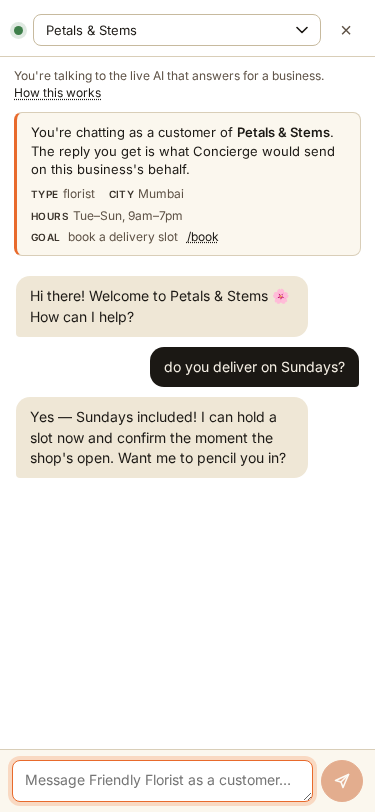
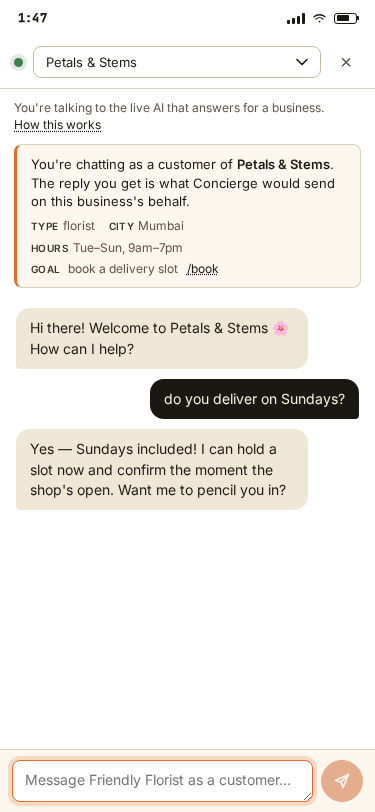
demo: real-phone status bars, live clock, slower wipe, depth on flip (#38)
- Add a generic (non-iOS/Android) status bar to the activated chat:
  live clock + drawn signal/wi-fi/battery glyphs, so it reads as a phone.
- Drive both status bars (idle illustration and activated chat) off a
  live wall-clock in the browser's own timezone, ticking each minute.
- Slow the concierge wipe to 900ms and widen the brand-mark hold so the
  mark is legible rather than a flicker.
- Give the open animation depth: a perspective hinge-flip (rotateX +
  translateZ) instead of a flat scale-in.
- visual.spec: wait out the longer wipe (page-scoped, since the overlay
  is a sibling of the chat dialog) before the demo shots.

diff --git a/public/css/components.css b/public/css/components.css
@@ -546,15 +546,24 @@ table tr.audit-detail > td { padding:0; background:var(--paper);
 .phone-backdrop { position:fixed; inset:0; z-index:1000; background:rgba(0,0,0,.45); }
 
 /* Activated frame: centre stage on a backdrop. Padding/gap drop to zero
-   so the chat fills the screen; the inner sections carry their own. */
+   so the chat fills the screen; the inner sections carry their own. The
+   open animation is a short hinge-flip: the phone tilts up from the
+   backdrop on an X axis with real perspective + depth (translateZ), so
+   it reads as a slab swinging toward you rather than a flat scale-in. */
 .phone-frame.active { position:fixed; z-index:1001; top:50%; left:50%;
   transform:translate(-50%,-50%);
   width:min(390px, calc(100vw - 32px)); height:min(680px, calc(100dvh - 48px));
   max-width:none; padding:0; gap:0; overflow:hidden;
-  animation:phone-pop .3s ease; }
-@keyframes phone-pop {
-  from { opacity:0; transform:translate(-50%,-50%) scale(.96); }
-  to { opacity:1; transform:translate(-50%,-50%) scale(1); }
+  transform-origin:50% 100%;
+  animation:phone-flip .5s cubic-bezier(.2,.75,.25,1); }
+@keyframes phone-flip {
+  0% { opacity:0;
+    transform:translate(-50%,-50%) perspective(1200px) rotateX(-38deg) translateZ(-80px) scale(.94);
+    box-shadow:0 50px 90px rgba(27,24,20,.04); }
+  55% { opacity:1; }
+  100% { opacity:1;
+    transform:translate(-50%,-50%) perspective(1200px) rotateX(0) translateZ(0) scale(1);
+    box-shadow:0 30px 70px rgba(27,24,20,.28); }
 }
 
 /* The concierge "wipe": a brand-coloured panel that sweeps top-to-bottom
@@ -564,25 +573,51 @@ table tr.audit-detail > td { padding:0; background:var(--paper);
   display:flex; align-items:center; justify-content:center;
   background:linear-gradient(135deg, var(--accent), var(--accent-2));
   border-radius:inherit;
-  animation:phone-wipe .48s cubic-bezier(.4,0,.2,1) forwards; }
+  animation:phone-wipe .9s cubic-bezier(.4,0,.2,1) forwards; }
 /* The brand mark lands as an app icon: a cream chip carrying the logo
    glyph, so it reads on the accent wipe (the logo's own disc is accent
-   and would otherwise vanish into the background). */
+   and would otherwise vanish into the background). It holds on screen
+   for a clear beat mid-sweep so the mark is legible, not a flicker. */
 .phone-wipe-mark { display:flex; align-items:center; justify-content:center;
   width:84px; height:84px; border-radius:22px; background:var(--cream);
   box-shadow:0 10px 30px rgba(27,24,20,.25);
-  animation:phone-wipe-mark .48s ease forwards; }
+  animation:phone-wipe-mark .9s ease forwards; }
 .phone-wipe-mark svg { width:52px; height:52px; }
 @keyframes phone-wipe {
   0% { transform:translateY(-101%); }
-  40%,60% { transform:translateY(0); }
+  30%,68% { transform:translateY(0); }
   100% { transform:translateY(101%); }
 }
 @keyframes phone-wipe-mark {
-  0%,18% { opacity:0; }
-  46%,58% { opacity:1; }
-  100% { opacity:0; }
+  0%,16% { opacity:0; transform:scale(.82); }
+  34%,62% { opacity:1; transform:scale(1); }
+  100% { opacity:0; transform:scale(1.05); }
 }
+
+/* Generic phone status bar across the top of the activated chat: live
+   clock on the left, signal / wi-fi / battery glyphs on the right. Drawn
+   from scratch (ascending bars, an arc, a capped cell) so it reads as "a
+   phone" without copying iOS's pill or Android's exact iconography. */
+.phone-statusbar { display:flex; align-items:center; justify-content:space-between;
+  flex:none; padding:9px 18px 5px;
+  font-family:var(--f-mono); font-size:12px; font-weight:600;
+  letter-spacing:.02em; color:var(--ink); }
+.phone-statusbar .phone-status-icons { display:inline-flex; align-items:center; gap:7px; }
+.phone-sig { display:inline-flex; align-items:flex-end; gap:2px; height:11px; }
+.phone-sig i { width:3px; background:var(--ink); border-radius:1px; }
+.phone-sig i:nth-child(1) { height:4px; }
+.phone-sig i:nth-child(2) { height:6px; }
+.phone-sig i:nth-child(3) { height:8px; }
+.phone-sig i:nth-child(4) { height:11px; }
+.phone-wifi { display:block; width:15px; height:11px; color:var(--ink); }
+.phone-batt { position:relative; box-sizing:border-box;
+  width:23px; height:11px; padding:1.5px;
+  border:1.5px solid var(--ink); border-radius:3px; }
+.phone-batt::after { content:""; position:absolute; right:-3px; top:50%;
+  transform:translateY(-50%); width:2px; height:4px;
+  background:var(--ink); border-radius:0 1px 1px 0; }
+.phone-batt i { display:block; height:100%; width:72%;
+  background:var(--ink); border-radius:1px; }
 
 /* In-phone chat surface: header / how-line / scroll / composer, stacked
    to fill the activated frame. */
@@ -625,7 +660,7 @@ table tr.audit-detail > td { padding:0; background:var(--paper);
   .phone-frame.active { top:0; left:0; transform:none;
     width:100vw; height:100dvh; max-height:none;
     border-radius:0; border:0; animation:phone-fade .3s ease; }
-  .phone-chat-head { padding-top:max(14px, env(safe-area-inset-top)); }
+  .phone-statusbar { padding-top:max(9px, env(safe-area-inset-top)); }
   .phone-form { padding-bottom:max(10px, env(safe-area-inset-bottom)); }
 }
 @keyframes phone-fade { from { opacity:0; } to { opacity:1; } }

diff --git a/tests/visual.spec.ts b/tests/visual.spec.ts
@@ -126,8 +126,14 @@ async function openDemoConversation(page: any) {
   await demo.getByRole('textbox').fill('do you deliver on Sundays?');
   await demo.getByRole('button', { name: 'Send' }).click();
   await demo.getByText(/Sundays included/i).waitFor();
-  // Let the wipe finish and bubbles settle before the shot.
-  await page.waitForTimeout(500);
+  // Wait out the concierge wipe overlay (it sweeps for ~900ms from the
+  // activation click) so the shot shows the chat, not the splash, then
+  // let the bubbles settle.
+  // (page-scoped: the wipe overlay is a sibling of the chat dialog, not
+  // inside it, so a demo-scoped locator would match nothing and resolve
+  // instantly.)
+  await page.locator('.phone-wipe').waitFor({ state: 'hidden' }).catch(() => {});
+  await page.waitForTimeout(300);
   return demo;
 }
 

diff --git a/src/templates/onboarding.rs b/src/templates/onboarding.rs
@@ -300,6 +300,14 @@ pub fn welcome_html(
         role="dialog" aria-modal="true" aria-label="{chat_title}"
         x-trap.noscroll.inert="activated && !open"
         @keydown.escape.window="activated && (open ? (open = false) : deactivate())">
+        <div class="phone-statusbar" aria-hidden="true">
+          <span class="phone-clock" x-text="clock">9:41</span>
+          <span class="phone-status-icons">
+            <span class="phone-sig"><i></i><i></i><i></i><i></i></span>
+            <svg class="phone-wifi" viewBox="0 0 16 12" fill="none" stroke="currentColor" stroke-width="1.4" stroke-linecap="round" aria-hidden="true"><path d="M2 4.2 A9 9 0 0 1 14 4.2"/><path d="M4.2 6.6 A5.5 5.5 0 0 1 11.8 6.6"/><circle cx="8" cy="9.4" r="1" fill="currentColor" stroke="none"/></svg>
+            <span class="phone-batt"><i></i></span>
+          </span>
+        </div>
         <div class="phone-chat-head">
           <span class="phone-chat-dot" aria-hidden="true"></span>
           <select class="select phone-persona" x-model="personaSlug" :disabled="!personas.length"
@@ -426,7 +434,7 @@ pub fn welcome_html(
     <div class="phone-frame" :class="(activated ? 'active ' : '') + (wiping ? 'wiping' : '')">
       <div class="phone-idle" x-show="!activated"{idle_attrs}>
         <div class="phone-bar" aria-hidden="true">
-          <span>9:47</span>
+          <span x-text="clock">9:47</span>
           <span class="phone-bar-dots"><i></i><i></i><i></i></span>
         </div>
         <div class="phone-header" aria-hidden="true">
@@ -700,6 +708,11 @@ const HERO_CHAT_JS: &str = r##"<script nonce="__CSP_NONCE__">
     activated: false,
     wiping: false,
     open: false,
+    // Live wall-clock for the phone's status bars (idle illustration and
+    // the activated chat). Refreshed every 30s so the minute rolls over
+    // promptly. Generic 12-hour, no am/pm, to suit the made-up phone.
+    clock: '',
+    _clockTimer: null,
     sending: false,
     error: '',
     input: '',
@@ -739,7 +752,14 @@ const HERO_CHAT_JS: &str = r##"<script nonce="__CSP_NONCE__">
         greeting: 'Loading…', prompt: '', slug: '', business: null,
       };
     },
+    updateClock() {
+      const d = new Date();
+      const h = ((d.getHours() + 11) % 12) + 1;
+      this.clock = h + ':' + String(d.getMinutes()).padStart(2, '0');
+    },
     async init() {
+      this.updateClock();
+      this._clockTimer = setInterval(() => this.updateClock(), 30000);
       try {
         this.personas = await personasReady;
       } catch (_) {
@@ -779,10 +799,11 @@ const HERO_CHAT_JS: &str = r##"<script nonce="__CSP_NONCE__">
         });
       });
     },
-    // Flip the phone into chat mode. Plays the quick concierge "wipe"
-    // overlay first (skipped under reduced-motion), then the chat fades
-    // in. No-op if already active. Guarded on personas so a disabled /
-    // empty-catalog demo can't open an empty chat.
+    // Flip the phone into chat mode. Plays the concierge "wipe" overlay
+    // first (skipped under reduced-motion), then the chat fades in. No-op
+    // if already active. Guarded on personas so a disabled / empty-catalog
+    // demo can't open an empty chat. The 900ms matches the .phone-wipe
+    // animation, which holds the brand mark on screen long enough to read.
     activate() {
       if (this.activated || !this.personas.length) return;
       this.activated = true;
@@ -791,7 +812,7 @@ const HERO_CHAT_JS: &str = r##"<script nonce="__CSP_NONCE__">
       if (this._wipeTimer) { clearTimeout(this._wipeTimer); this._wipeTimer = null; }
       if (!reduce) {
         this.wiping = true;
-        this._wipeTimer = setTimeout(() => { this.wiping = false; this._wipeTimer = null; }, 480);
+        this._wipeTimer = setTimeout(() => { this.wiping = false; this._wipeTimer = null; }, 900);
       }
     },
     // Close the demo: drop the reference modal too, stop the wipe, and
